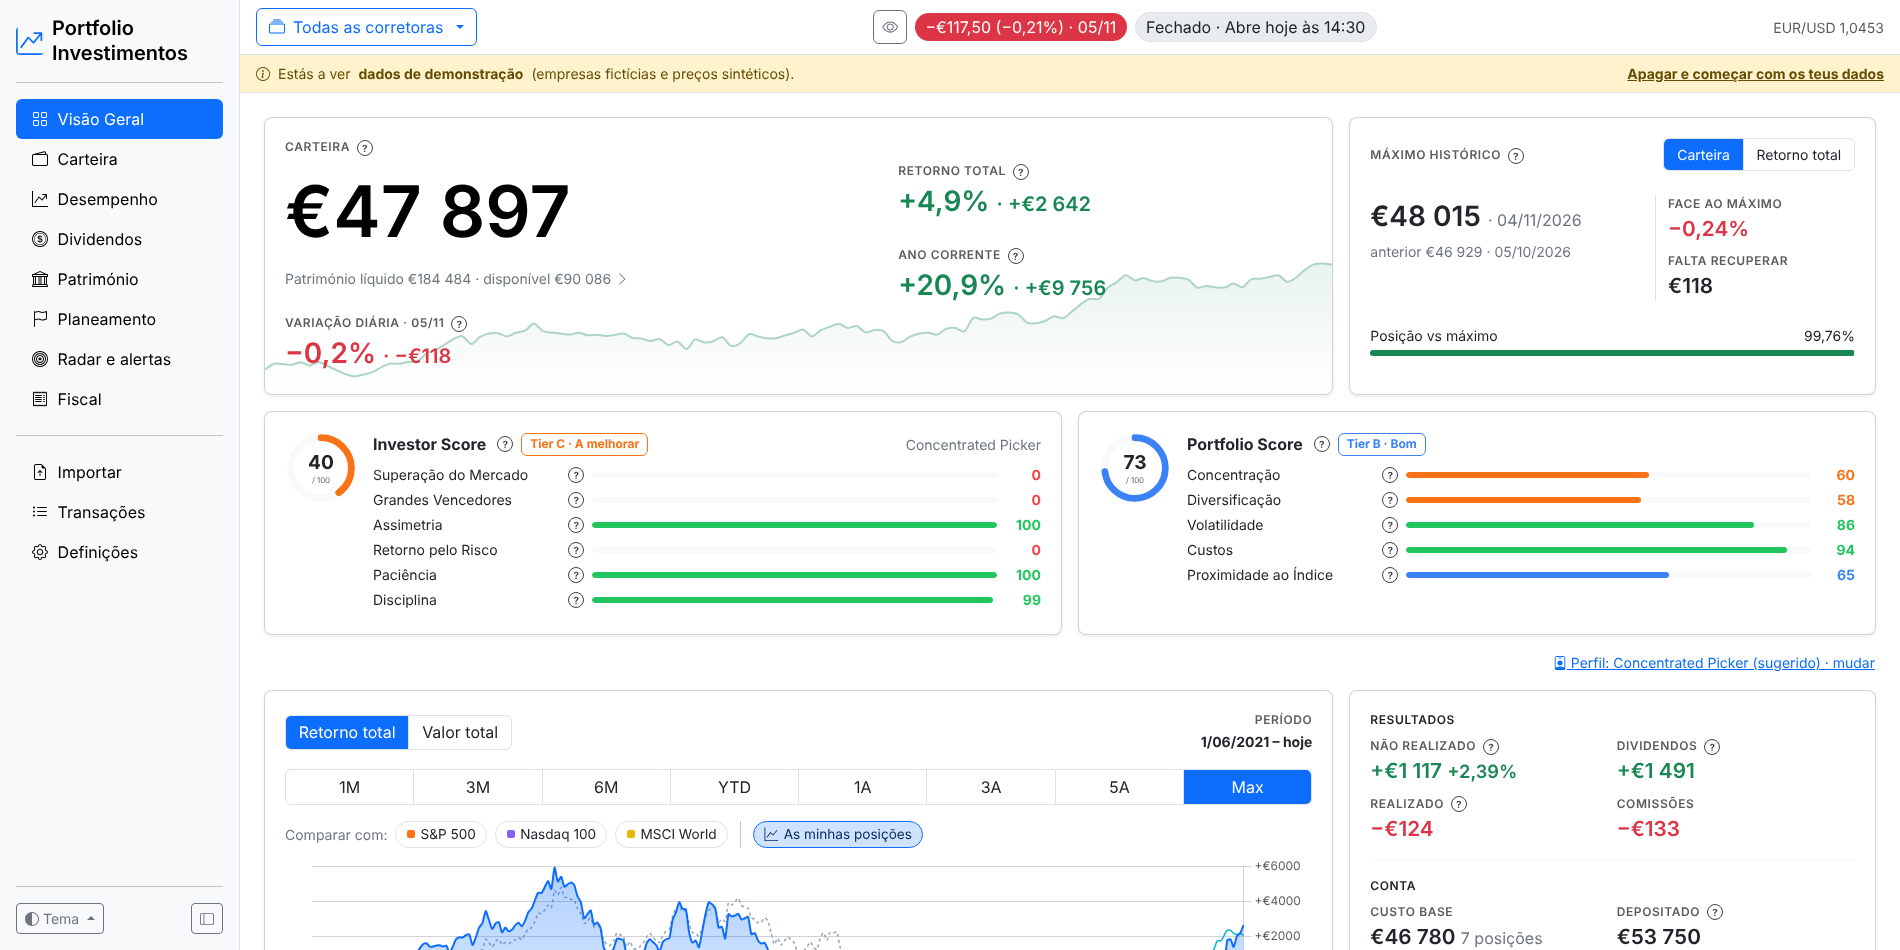
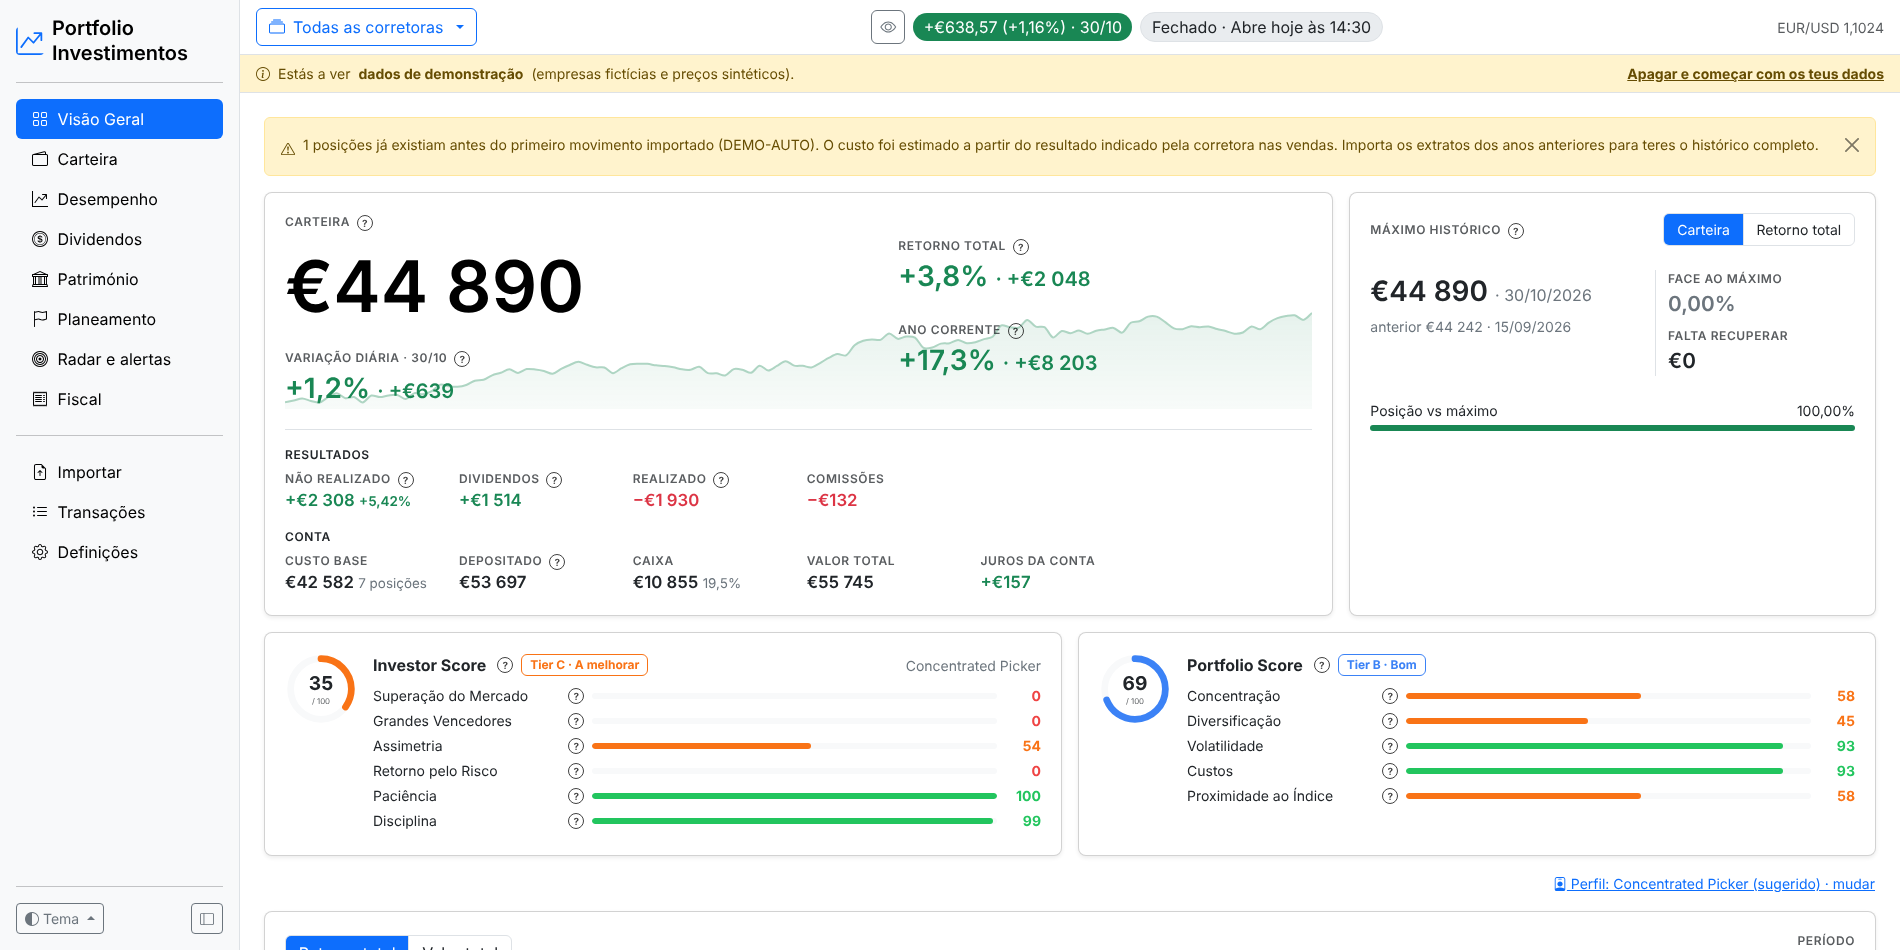
Visão Geral: resultados e conta no cartão Carteira
Os valores do cartão Resultados / Conta passam para uma faixa por baixo dos valores do cartão Carteira (títulos por cima, colunas que se ajustam à largura; 2 colunas no telemóvel). O cartão antigo sai e o gráfico de evolução fica a toda a largura. Capturas 01 e 02 da Visão Geral refeitas (claro e escuro).

Claude-Session: https://claude.ai/code/session_01AhMv5rzh4esVFWwNf2sje8

diff --git a/portfolio_investimentos/templates/pages/index.html b/portfolio_investimentos/templates/pages/index.html
@@ -17,6 +17,7 @@
   <!-- Carteira -->
   <div class="col-xl-8">
     <div class="pm-card accent-top">
+      <div class="position-relative">
       <div class="pm-hero-chart"><canvas id="heroSpark"></canvas></div>
       <div class="row position-relative">
         <div class="col-md-7">
@@ -31,6 +32,26 @@
           <div class="pm-big {{ p.total_return|tone }}">{{ p.total_return_pct|pct(1) }} <small class="fs-5 money">· {{ p.total_return|money(sign=True) }}</small></div>
           <div class="pm-label mt-4">Ano corrente {{ help("Em euros: variação do valor desde 31 de dezembro, sem contar depósitos e levantamentos. Em %: esse ganho dividido pelo capital investido no ano (valor a 31 de dezembro mais as entradas do ano).") }}</div>
           <div class="pm-big {{ ytd[1]|tone }}">{{ ytd[1]|pct(1) }} <small class="fs-5 money">· {{ ytd[0]|money(sign=True) }}</small></div>
+        </div>
+      </div>
+      </div>
+      <!-- Resultados / conta -->
+      <div class="pm-hero-facts" id="heroFacts">
+        <div class="pm-facts-title pm-label">Resultados</div>
+        <div class="pm-facts-grid">
+          <div><div class="pm-label">Não realizado {{ help("Ganho/perda das posições abertas face ao custo.") }}</div>
+            <div class="pm-fact">{{ signed(p.unrealized, 0, p.unrealized / p.cost_basis if p.cost_basis else 0) }}</div></div>
+          <div><div class="pm-label">Dividendos {{ help("Dividendos líquidos de retenção.") }}</div><div class="pm-fact">{{ signed(p.dividends_total) }}</div></div>
+          <div><div class="pm-label">Realizado {{ help("Mais/menos-valias de vendas (FIFO).") }}</div><div class="pm-fact">{{ signed(p.realized) }}</div></div>
+          <div><div class="pm-label">Comissões</div><div class="pm-fact">{{ signed(-p.fees_eur) }}</div></div>
+        </div>
+        <div class="pm-facts-title pm-label">Conta</div>
+        <div class="pm-facts-grid">
+          <div><div class="pm-label">Custo base</div><div class="pm-fact money">{{ p.cost_basis|money }} <small class="text-secondary fw-normal">{{ p.open_positions|length }} posições</small></div></div>
+          <div><div class="pm-label">Depositado {{ help("Depósitos menos levantamentos (inclui compras sem depósito registado).") }}</div><div class="pm-fact money">{{ p.net_deposits|money }}</div></div>
+          <div><div class="pm-label">Caixa</div><div class="pm-fact money">{{ p.cash|money }} <small class="text-secondary fw-normal">{{ (p.cash / p.total_value if p.total_value else 0)|pct(1, sign=False) }}</small></div></div>
+          <div><div class="pm-label">Valor total</div><div class="pm-fact money">{{ p.total_value|money }}</div></div>
+          <div><div class="pm-label">Juros da conta</div><div class="pm-fact">{{ signed(p.interest_eur) }}</div></div>
         </div>
       </div>
     </div>
@@ -70,7 +91,7 @@
   {{ ins.scores_row(scores) }}
 
   <!-- Gráfico de desempenho -->
-  <div class="col-xl-8">
+  <div class="col-12">
     <div class="pm-card">
       <div class="d-flex align-items-center gap-2 flex-wrap mb-3">
         <div class="pm-seg" id="modeSeg"><button class="active" data-mode="gain">Retorno total</button><button data-mode="value">Valor total</button></div>
@@ -87,32 +108,6 @@
       </div>
       <div style="height: 320px"><canvas id="perfChart"></canvas></div>
       <div id="posLegend" class="d-flex flex-wrap gap-2 justify-content-center mt-2"></div>
-    </div>
-  </div>
-
-  <!-- Resultados / conta -->
-  <div class="col-xl-4">
-    <div class="pm-card">
-      <div class="pm-label mb-2" style="color:var(--pm-text)">Resultados</div>
-      <div class="row g-2">
-        <div class="col-6"><div class="pm-label">Não realizado {{ help("Ganho/perda das posições abertas face ao custo.") }}</div>
-          <div class="pm-mid">{{ signed(p.unrealized, 0, p.unrealized / p.cost_basis if p.cost_basis else 0) }}</div></div>
-        <div class="col-6"><div class="pm-label">Dividendos {{ help("Dividendos líquidos de retenção.") }}</div>
-          <div class="pm-mid">{{ signed(p.dividends_total) }}</div></div>
-        <div class="col-6"><div class="pm-label">Realizado {{ help("Mais/menos-valias de vendas (FIFO).") }}</div>
-          <div class="pm-mid">{{ signed(p.realized) }}</div></div>
-        <div class="col-6"><div class="pm-label">Comissões</div>
-          <div class="pm-mid">{{ signed(-p.fees_eur) }}</div></div>
-      </div>
-      <hr style="border-color:var(--pm-border)">
-      <div class="pm-label mb-2" style="color:var(--pm-text)">Conta</div>
-      <div class="row g-2">
-        <div class="col-6"><div class="pm-label">Custo base</div><div class="pm-mid money">{{ p.cost_basis|money }} <small class="fs-6 text-secondary fw-normal">{{ p.open_positions|length }} posições</small></div></div>
-        <div class="col-6"><div class="pm-label">Depositado {{ help("Depósitos menos levantamentos (inclui compras sem depósito registado).") }}</div><div class="pm-mid money">{{ p.net_deposits|money }}</div></div>
-        <div class="col-6"><div class="pm-label">Caixa</div><div class="pm-mid money">{{ p.cash|money }} <small class="fs-6 text-secondary fw-normal">{{ (p.cash / p.total_value if p.total_value else 0)|pct(1, sign=False) }}</small></div></div>
-        <div class="col-6"><div class="pm-label">Valor total</div><div class="pm-mid money">{{ p.total_value|money }}</div></div>
-        <div class="col-6"><div class="pm-label">Juros da conta</div><div class="pm-mid">{{ signed(p.interest_eur) }}</div></div>
-      </div>
     </div>
   </div>
 

diff --git a/portfolio_investimentos/static/css/pm.css b/portfolio_investimentos/static/css/pm.css
@@ -61,6 +61,16 @@ body.pm-collapsed .pm-sidebar-foot .dropdown-toggle::after { display: none; }
 .pm-section-title { text-transform: uppercase; letter-spacing: .06em; font-size: .85rem; font-weight: 600; color: var(--bs-secondary-color); margin: 2rem 0 1rem; }
 .pm-hero-chart { position: absolute; inset: auto 0 0 0; height: 55%; opacity: .35; pointer-events: none; }
 .pm-hero-chart canvas { width: 100% !important; height: 100% !important; }
+/* Visão Geral: resultados e conta por baixo dos valores do widget Carteira */
+.pm-hero-facts { display: grid; grid-template-columns: 1fr; gap: .35rem; align-items: start;
+  margin-top: 1.25rem; padding-top: 1rem; border-top: 1px solid var(--pm-border); }
+.pm-facts-title { color: var(--pm-text); }
+.pm-facts-grid + .pm-facts-title { margin-top: .6rem; }
+.pm-facts-grid { display: grid; grid-template-columns: repeat(auto-fill, minmax(8.5rem, 1fr)); gap: .5rem 1rem; }
+.pm-fact { font-weight: 600; font-size: 1.05rem; }
+.pm-fact > *, .pm-fact.money { white-space: nowrap; }
+.pm-fact small { font-size: .8em; }
+@media (max-width: 575.98px) { .pm-facts-grid { grid-template-columns: 1fr 1fr; } }
 .pm-progress { height: 6px; background: var(--bs-secondary-bg); border-radius: var(--bs-border-radius-pill); overflow: hidden; }
 .pm-progress > div { height: 100%; background: var(--bs-success); }
 

diff --git a/README.md b/README.md
@@ -179,7 +179,7 @@ O tema escolhe-se no botão **Tema**, no fundo da barra lateral: Claro, Escuro o
 
 | Página | O que mostra |
 | --- | --- |
-| **Visão Geral** | Valor da carteira, variação diária, retorno total e do ano corrente; máximo histórico (carteira ou retorno). **Perfil de investidor**: Investor Score e Portfolio Score (0-100, últimos 3 anos) com seis perfis (Passive Index, Concentrated Picker, Diversified Active, Income Focus, Growth/Tech, Active Trader), o perfil sugerido pela carteira e a fórmula de cada métrica no «?». Gráfico de evolução (retorno ou valor, 1M a Máx) com comparação com S&P 500, Nasdaq 100 e MSCI World e **as minhas posições** (as 5 com maior ganho ou perda e as restantes somadas, ligado por omissão); resultados e conta. Principais movers do dia (até 8), com o nome, o preço e um gráfico do último ano que ocupa a largura da linha, verde acima do teu preço médio de aquisição (tracejado) e vermelho abaixo, com a data, o preço e a diferença para o preço médio ao passar o rato. Próximos eventos dos próximos 90 dias (resultados, com o intervalo quando ainda é estimado, ex-dividendo e pagamentos). **Peso vs retorno** (mapa e bolhas) e **alocação** por setor, geografia, classe e corretora. |
+| **Visão Geral** | Valor da carteira, variação diária, retorno total e do ano corrente, e no mesmo cartão os resultados (não realizado, dividendos, realizado, comissões) e a conta (custo base, depositado, caixa, valor total, juros); máximo histórico (carteira ou retorno). **Perfil de investidor**: Investor Score e Portfolio Score (0-100, últimos 3 anos) com seis perfis (Passive Index, Concentrated Picker, Diversified Active, Income Focus, Growth/Tech, Active Trader), o perfil sugerido pela carteira e a fórmula de cada métrica no «?». Gráfico de evolução (retorno ou valor, 1M a Máx) com comparação com S&P 500, Nasdaq 100 e MSCI World e **as minhas posições** (as 5 com maior ganho ou perda e as restantes somadas, ligado por omissão), a toda a largura. Principais movers do dia (até 8), com o nome, o preço e um gráfico do último ano que ocupa a largura da linha, verde acima do teu preço médio de aquisição (tracejado) e vermelho abaixo, com a data, o preço e a diferença para o preço médio ao passar o rato. Próximos eventos dos próximos 90 dias (resultados, com o intervalo quando ainda é estimado, ex-dividendo e pagamentos). **Peso vs retorno** (mapa e bolhas) e **alocação** por setor, geografia, classe e corretora. |
 | **Carteira** | Posições abertas/fechadas, carteira vs mercado no dia, filtros por setor, pesquisa, tabela ordenável (preço, 1D, preço médio, investido, valor, não realizado, dividendos, efeito cambial, comissões, ROI, peso) e alocação por ativo, setor e moeda. «As crises»: quanto cairia a carteira de hoje se 2008, 2011, 2020 ou 2022 se repetissem (beta de cada posição face ao S&P 500) e quanto tempo levava a recuperar. «Os custos»: comissões, custo dos ETF (TER, indicado por ti) e retenções na fonte acima dos 15% da convenção, por ano e daqui a 20 anos. «O valor de cada ação»: por ordem de popularidade, DCF, Número de Graham, fórmula de crescimento de Graham (com o rendimento das obrigações AAA configurável) e modelo de Gordon, e em «Mais métodos» Owner Earnings (Buffett), Earnings Power Value (Greenwald), Bazin e o PEG de Peter Lynch, sempre em intervalo e com a fórmula e os números no «?», comparados com o preço, e o crescimento que o preço de hoje já assume; dados fundamentais do Yahoo (uma vez por semana, na atualização de cotações; se o pedido principal falhar, a partir das demonstrações financeiras, também da cotação principal pelo ISIN, convertidos para a moeda da cotação), que podes corrigir. «Carteira cerne»: três ETF com pesos alvo (por omissão ERNX 45% · FWIA 30% · XEON 25%); quando o ETF de crescimento cai face ao máximo, a mistura alvo passa ao escalão seguinte (40/35/25, 35/40/25, 30/50/20, 25/60/15, 20/70/10), a cada 10% de queda (configurável em Definições), e mantém-se quando ele recupera até voltares à base; com os pesos atuais, o desvio, as ordens em € e unidades (ou só a distribuição do dinheiro novo, sem vender), o retorno esperado, a volatilidade e o pior ano típico de cada escalão, e uma faixa no topo quando se chega a um escalão novo. |
 | **Desempenho** | Retorno total e IRR, TWR e CAGR vs índice, melhor/pior ano e mês, sequência atual; TWR anual e acumulado; drawdown; mapa de retornos mensais; mérito vs mercado (captura em alta/baixa, beta, % de meses acima do mercado); risco (Sharpe, Sortino, Calmar, volatilidade, max drawdown); alfa de Jensen e distribuição mensal ordenada. |
 | **Dividendos** | Recebido líquido/bruto e retenção na fonte, maior pagador, meses com dividendos, rendimento anualizado, crescimento anual. **Projeção** do ano e dos próximos 12 meses com os dividendos recebidos e, para posições recentes, os dividendos por ação do Yahoo, com a origem de cada valor. Dividendos por ano, decomposição do crescimento, **mapa mensal com a linha do próximo ano**, **datas ex-dividendo** (recebido, a receber, sem direito por ter comprado depois, previsto), yield on cost e histórico. |

diff --git a/CHANGELOG.md b/CHANGELOG.md
@@ -4,6 +4,8 @@ O que mudou em cada commit, do mais recente para o mais antigo (gerado a partir 
 
 ## 2026-11-05
 
+- **Visão Geral: resultados e conta no cartão Carteira**  
+  Os valores do cartão «Resultados / Conta» (não realizado, dividendos, realizado, comissões, custo base, depositado, caixa, valor total e juros da conta) passam para uma faixa por baixo dos valores do primeiro cartão, Carteira. O cartão antigo sai e o gráfico de evolução passa a ocupar a largura toda.
 - **Carteira: carteira cerne (ERNX · FWIA · XEON) com escalões quando o FWIA cai**  
   Um cartão novo na Carteira com os pesos alvo de 3 ETF (reserva, crescimento e estável; por omissão ERNX 45% · FWIA 30% · XEON 25%). Quando o FWIA cai face ao máximo, a mistura alvo passa ao escalão seguinte da tabela (40/35/25, 35/40/25, 30/50/20, 25/60/15, 20/70/10), por omissão a cada 10% de queda; o intervalo muda-se em Definições → Dados de mercado (ex.: 5% → −5/−10/−15/−20/−25%), sem mudar as misturas. O escalão atingido mantém-se quando o FWIA recupera; «Voltar ao alvo base» é manual. O cartão mostra a queda, os pesos atuais e alvo, o desvio, as ordens para chegar ao alvo em € e unidades, ou, com dinheiro novo a investir, só as compras (sem vender nem pagar IRS), e o retorno esperado, a volatilidade e o pior ano típico de cada escalão. Ao chegar a um escalão novo, aparece uma faixa no topo de todas as páginas, até carregares em «Já vi».
 - **Desempenho: Sharpe, Sortino e alfa corretos em períodos curtos; médias só com anos completos**  
